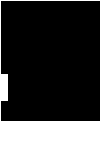
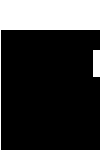
pls fix inflation

diff --git a/nodes/costmap_server.py b/nodes/costmap_server.py
@@ -1,5 +1,4 @@
 #!/usr/bin/env python3
-from turtle import width
 import roslib
 roslib.load_manifest('ebobot')
 import rospy
@@ -14,19 +13,22 @@ from map_msgs.msg import OccupancyGridUpdate
 from dorlib import dCoordsInRad
 import numpy as np
 import cv2
-
+import os
 
 class Costmap():
     #Params
+    inflate_enable = rospy.get_param('costmap_server/inflate_enable',0)
     debug = rospy.get_param('costmap_server/debug',1)
-    inflation_buff_coeff = rospy.get_param('costmap_server/inflation_buff_coeff',0.2)
+    write_map_enable = rospy.get_param('costmap_server/write_map_enable', 1 )
+    inflation_buff_coeff = rospy.get_param('costmap_server/inflation_buff_coeff',0.5) #less = more
     inflation_power = rospy.get_param('costmap_server/inflation_power',2)
     update_rate = rospy.get_param('costmap_server/update_rate',0.5)
-    inflation_radius = rospy.get_param('costmap_server/inflation_radius',0.3)
-    inflation_step_radians_resolution = rospy.get_param('costmap_server/inflation_step_radians_resolution',0.2)
+    inflation_radius = rospy.get_param('costmap_server/inflation_radius',0.08)
+    inflation_step_radians_resolution = rospy.get_param('costmap_server/inflation_step_radians_resolution',5)
     resolution = rospy.get_param('costmap_server/resolution',0.02)
     file = rospy.get_param('costmap_server/file','/home/alexej/catkin_ws/src/ebobot/nodes/costmap.png')
-    safe_footprint_radius =  rospy.get_param('costmap_server/safe_footprint_radius',0.30)
+    file_dir = rospy.get_param('costmap_server/file_dir','/home/alexej/catkin_ws/src/ebobot/nodes/')
+    #safe_footprint_radius =  rospy.get_param('costmap_server/safe_footprint_radius',0.08)
     ##
     #Topics
     costmap_broadcaster = tf.TransformBroadcaster()
@@ -48,27 +50,61 @@ class Costmap():
     for x in range(height):
         for y in range(width):
             grid_parser.append((x,y))
+    
+    inflation_coords_list = dCoordsInRad(inflation_radius//resolution,inflation_step_radians_resolution)
     if debug:
         rospy.loginfo(f"Costmap shape is {width,height}(w,h)")
-    #applied_list = []
-    inflation_coords_list = dCoordsInRad(inflation_radius//resolution,inflation_step_radians_resolution)
-    
+        rospy.loginfo(f"{inflation_coords_list}")
     grid = np.array([[0]*101 for _ in range(151)])
-    #list = []
     #/Global
    
     @classmethod
     def initCostmap(cls):
         start_time = rospy.Time.now()
-        cls.grid = np.array(cls.pixels)#new_grid
+        cls.grid = cls.pixels#new_grid
         if cls.debug:
-            rospy.loginfo(f"Map read (First row = {cls.grid[0]})")
-        for x,y in cls.grid_parser:
-            if cls.debug:
-                rospy.loginfo(f"Inflating {x},{y}")
-            cls.inflate(x,y)
+            rospy.loginfo(f"Map read \n(First row = {cls.grid[0]})\n(Row 40 = {cls.grid[39]})")
+        if cls.inflate_enable:
+            for x,y in cls.grid_parser:
+                if not rospy.is_shutdown():
+                    if cls.debug:
+                        rospy.loginfo(f"Inflating {x},{y}")
+                    cls.inflate(x,y)
+            if cls.write_map_enable:
+                os.chdir(cls.file_dir)
+                cv2.imwrite("inflated_costmap.png", cls.grid * 255/100)
+                if cls.debug:
+                    mask = np.array([[0]*100 ] for _ in range(100))
+                    for x, y in cls.inflation_coords_list:
+                        mask[50+x][50+y] = 255
+                    cv2.imwrite("inflation_mask.png", mask)
+                rospy.loginfo(f"Saving map into {cls.file_dir}")
         rospy.loginfo(f"Costmap init done in {(rospy.Time.now() - start_time).to_sec()}")
+        
     
+    @classmethod
+    def getInflationFromDist(cls,dist): ###dist in cells
+        if dist:
+            inflation = round(100 * cls.safe_footprint_radius/(cls.inflation_buff_coeff*dist**cls.inflation_power)) 
+        else:
+            inflation = 100
+        if inflation > 100:
+            inflation = 100
+        elif inflation < 0:
+            inflation = 0
+        return inflation
+    @classmethod
+    def inflate(cls,x,y):
+        if cls.pixels[x][y] > 90:
+            for d_x, d_y in cls.inflation_coords_list:
+                next_x, next_y = x+d_x, y + d_y
+                if (next_x > 0 and next_x < cls.height) and (next_y>0 and next_y <cls.width):
+                    inflation = cls.getInflationFromDist(np.linalg.norm(np.array([next_x,next_y]-np.array([x,y]))))
+                    if cls.debug:
+                        rospy.loginfo(f"x {next_x}, y {next_y}, inflation = {inflation}")
+                    cls.grid[next_x][next_y] += inflation
+                    if cls.grid[next_x][next_y] > 100:
+                        cls.grid[next_x][next_y] = 100
     @classmethod
     def publishUpdate(cls): ###An example
         msg = OccupancyGridUpdate()
@@ -83,24 +119,6 @@ class Costmap():
         msg.data = data_list
         cls.grid_update_publisher.publish(msg)
     @classmethod
-    def getInflationFromDist(cls,dist): ###dist in cells
-        if dist:
-            inflation = round(100 - cls.inflation_buff_coeff*dist**cls.inflation_power)
-        else:
-            inflation = 100
-        # if inflation > 100:
-        #     inflation = 100
-        return  inflation
-    @classmethod
-    def inflate(cls,x,y):
-        for d_x, d_y in cls.inflation_coords_list:
-                next_x, next_y = abs(x+d_x), abs(y + d_y)
-                if (next_x > 0 and next_x < cls.height) and (next_y>0 and next_y <cls.width):
-                    inflation = cls.getInflationFromDist(np.linalg.norm(np.array([next_x,next_y]-np.array([x,y]))))
-                    if cls.debug:
-                        rospy.loginfo(f"x {next_x}, y {next_y}, inflation = {inflation}")
-                    cls.grid[next_x][next_y] += inflation
-    @classmethod
     def publish(cls): ###An example
         msg = OccupancyGrid()
         curr_time = rospy.Time.now()
@@ -111,12 +129,13 @@ class Costmap():
         msg.info.height = cls.height
         for x in range(cls.height):
             for y in range(cls.width):
-                msg.data.append(cls.grid[x,y])
+                msg.data.append(int(cls.grid[x,y]))
+        zero_quat = tf.transformations.quaternion_from_euler(0,0,0)
         cls.costmap_broadcaster.sendTransform(
-            (0, 0, 0.),
-            (0,0,0,0),
+            (0, 0, 0),
+            zero_quat,
             curr_time ,
-            "fixed",
+            "costmap",
             "map"
             )
         cls.grid_publisher.publish(msg)
@@ -155,7 +174,6 @@ def main():
     rospy.sleep(1)
     Costmap.initCostmap()
     Costmap.publish()
-    
     while not rospy.is_shutdown():
         Costmap.publish()
         rate.sleep()

diff --git a/nodes/tf.py b/nodes/tf.py
@@ -1,0 +1,23 @@
+import roslib
+roslib.load_manifest('ebobot')
+import rospy
+import tf
+########################NOT NEEDED
+def main():
+    rospy.init_node("map")
+    map_broadcaster = tf.TransformBroadcaster()
+    while not rospy.is_shutdown():
+        zero_quat = tf.transformations.quaternion_from_euler(0,0,0)
+        map_broadcaster.sendTransform(
+            (0, 0, 0),
+            zero_quat,
+            rospy.Time.now() ,
+            "costmap",
+            "map"
+            )
+        rospy.sleep(2)
+
+if __name__=="__main__":
+    main()
+
+

diff --git a/src/dorlib.py b/src/dorlib.py
@@ -27,6 +27,7 @@ def dCoordsInRad(rad,resolution = 3):
                     if y > 0: 
                         list.append((-x,-y))
         last_x = x_max
+    print (list)
     return list
 
 
@@ -43,4 +44,4 @@ def dCoordsOnCircle(rad,resolution = 3):
     print(f"Got coords on circle! {list}")
     return list
 
-#print(dCoordsInRad(10))
+#dCoordsInRad(5)
